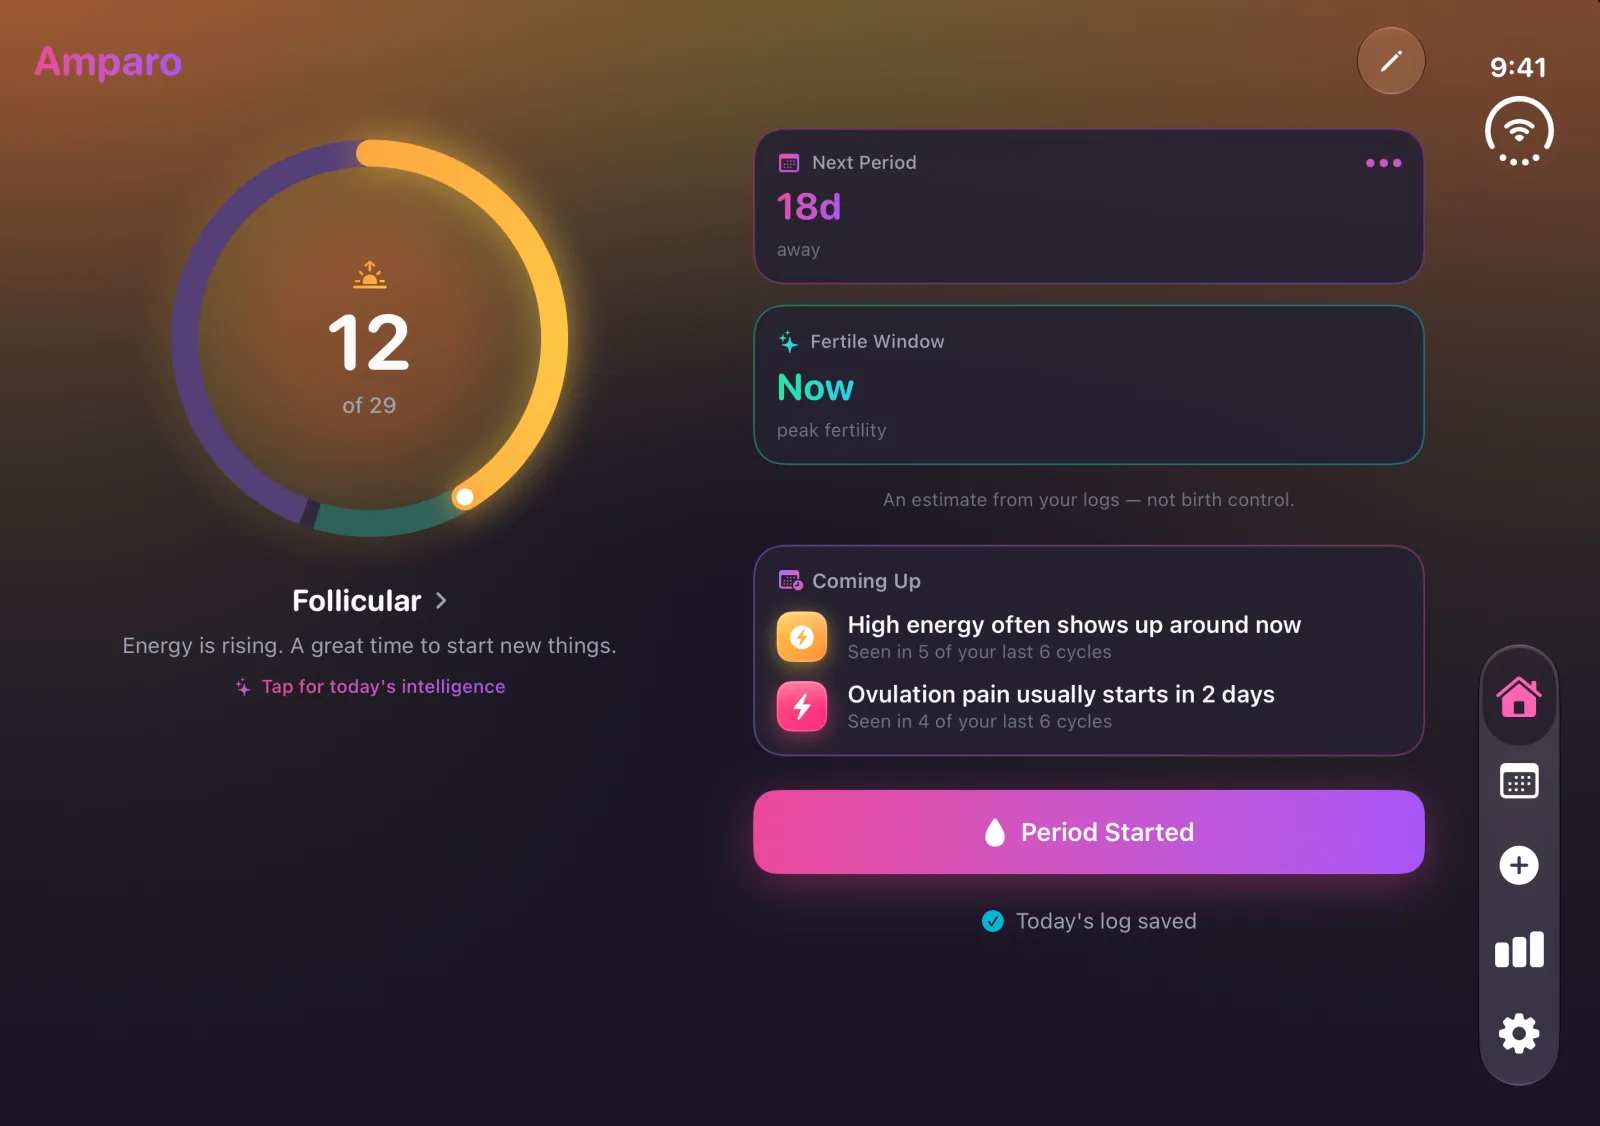
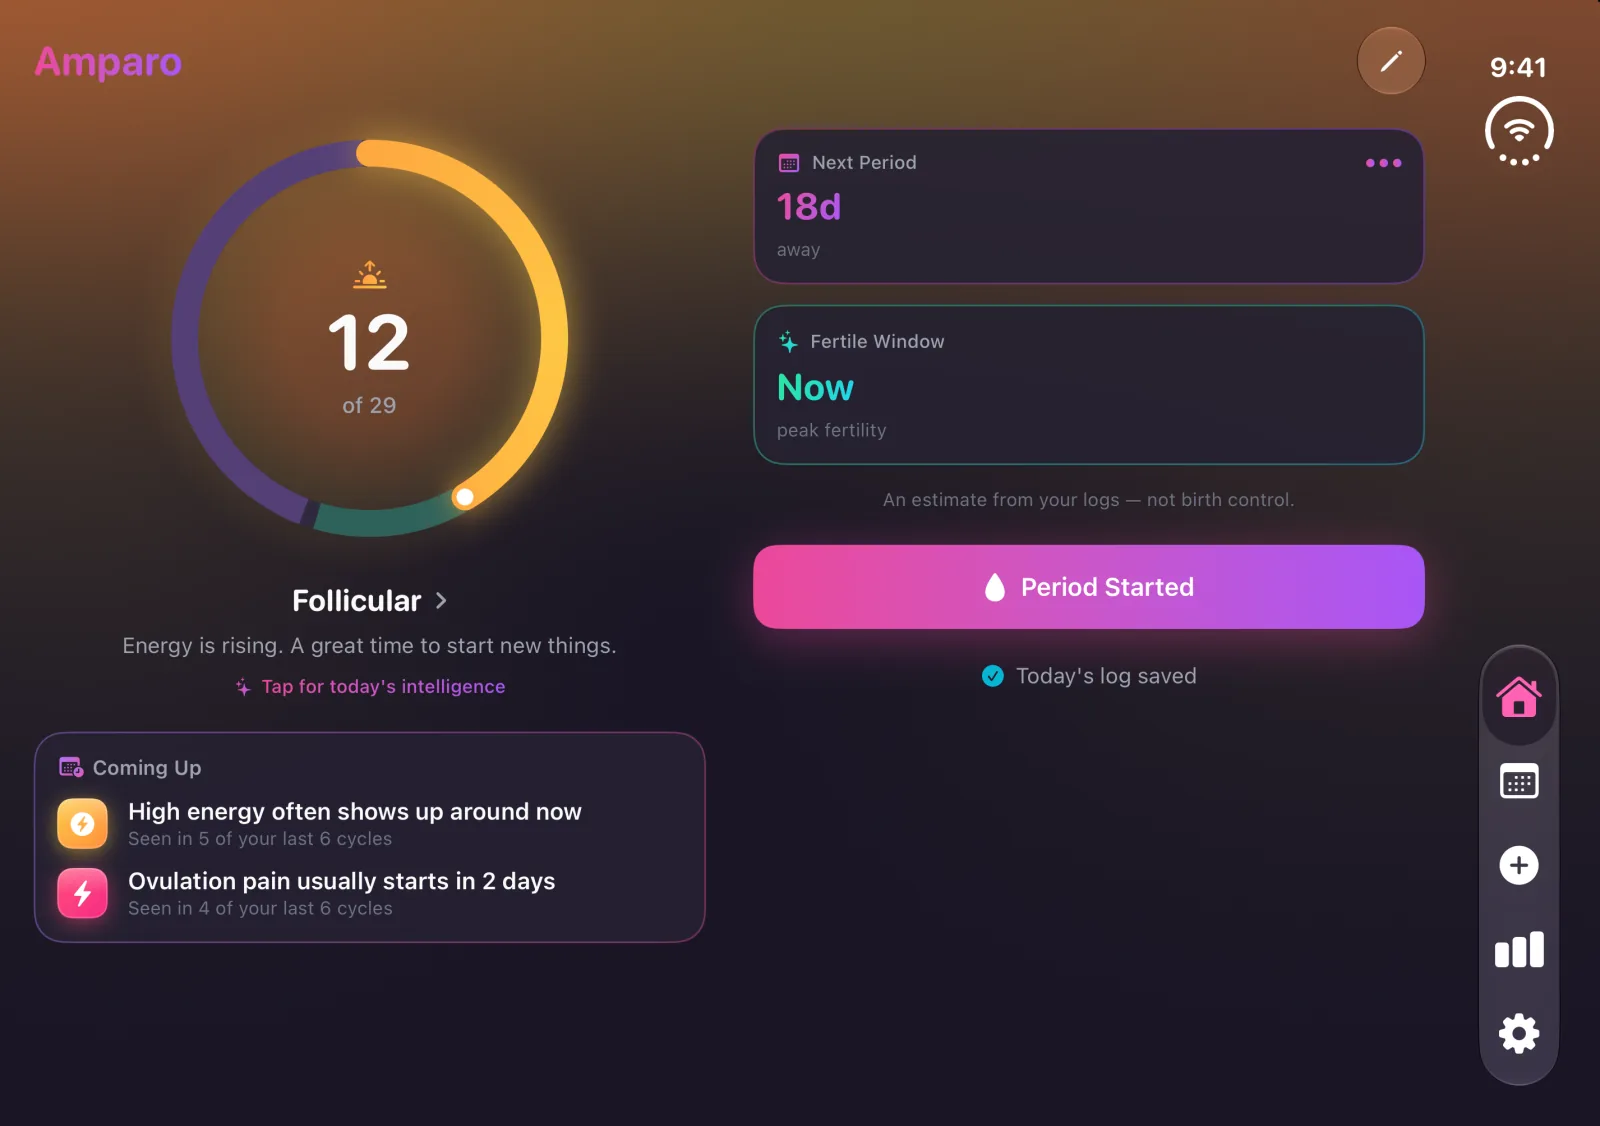
Amparo 1.5: designed for iPhone Duo, with the Log in the Duo gallery

Changed region(s): [[0.4688, 0.4663, 0.9062, 0.8393], [0.0312, 0.6528, 0.375, 0.8393]]

diff --git a/src/app/data/projects.ts b/src/app/data/projects.ts
@@ -33,6 +33,7 @@ import amparoDuo from '../assets/amparo/duo/home.webp';
 import amparoDuoCalendar from '../assets/amparo/duo/calendar.webp';
 import amparoDuoInsights from '../assets/amparo/duo/insights.webp';
 import amparoDuoSkins from '../assets/amparo/duo/skins.webp';
+import amparoDuoLog from '../assets/amparo/duo/log.webp';
 import amparoPrivacy from '../assets/amparo/privacy.webp';
 import amparoInsights from '../assets/amparo/insights.webp';
 import amparoPatterns from '../assets/amparo/patterns.webp';
@@ -49,6 +50,7 @@ import amparoDuoEs from '../assets/amparo/es/duo/home.webp';
 import amparoDuoCalendarEs from '../assets/amparo/es/duo/calendar.webp';
 import amparoDuoInsightsEs from '../assets/amparo/es/duo/insights.webp';
 import amparoDuoSkinsEs from '../assets/amparo/es/duo/skins.webp';
+import amparoDuoLogEs from '../assets/amparo/es/duo/log.webp';
 import amparoPrivacyEs from '../assets/amparo/es/privacy.webp';
 import amparoInsightsEs from '../assets/amparo/es/insights.webp';
 import amparoPatternsEs from '../assets/amparo/es/patterns.webp';
@@ -1014,7 +1016,7 @@ export const projects: Project[] = [
         'Pattern insights that describe your own rhythms: never a diagnosis, never a contraceptive',
     ],
     version: {
-      current: '1.4',
+      current: '1.5',
       currentFeatures: [
         'The whole app in English and Spanish, following your iPhone\'s language, widgets and Siri included',
         'Kept out of iCloud Backup by default, so your data stays on your iPhone unless you choose otherwise',
@@ -1030,14 +1032,14 @@ export const projects: Project[] = [
         'Keep My History: automatically delete entries older than a period you choose',
         'Four looks: Midnight, Daylight, Notepad, and Plain, with widgets and the Live Activity to match',
         'Widgets for the Home Screen, the Lock Screen, and StandBy, plus a control for Control Center and the Action button',
-        'Made for iPhone Duo: unfold it, and Home, Calendar, and Insights spread into two columns',
+        'Designed for iPhone Duo: unfold it, and every tab spreads into two columns, with the whole day\'s log on one screen',
+        'The Calendar shows everything you logged for a day beside the month',
         'VoiceOver, Voice Control, larger text, and Increase Contrast, with charts you can hear',
         'Siri keeps quiet about your cycle while your iPhone is locked',
       ],
-      next: '1.5',
+      next: '1.6',
       nextFeatures: [
-        'Designed for iPhone Duo: unfold it, and every tab spreads into two columns, with the whole day\'s log on one screen',
-        'The Calendar shows everything you logged for a day beside the month',
+        'What\'s next is still being decided. Whatever it is, your data will stay on your iPhone.',
       ],
     },
     appStoreUrl: 'https://apps.apple.com/us/app/amparo/id6765911709',
@@ -1213,19 +1215,33 @@ export const projects: Project[] = [
         width: 737,
         height: 1600,
       },
-      /* iPhone Duo, unfolded: the screens 1.4 lays out in two columns, from
-         Amparo's docs/screenshots/Raw/Duo inner (captured 2026-10-17). The
-         other screens there are the iPhone layout, stretched. */
+      /* iPhone Duo, unfolded: 1.5 lays out every tab in two columns, from
+         Amparo's docs/screenshots/Raw/Duo inner (captured 2026-10-21). */
       {
         device: 'duo',
         src: amparoDuo,
-        alt: 'Amparo\'s Home screen unfolded on iPhone Duo: the cycle ring and phase on the left, and the next period, the fertile window, two symptoms coming up, and the Period Started button in a second column, with the tabs in a rail on the right.',
-        caption: 'Made for iPhone Duo: unfold it, and Home, Calendar, and Insights spread into two columns.',
+        alt: 'Amparo\'s Home screen unfolded on iPhone Duo: the cycle ring, the follicular phase, and two symptoms coming up on the left; the next period in 18 days, the fertile window, and the Period Started button on the right; and the tabs in a rail along the right edge.',
+        caption: 'Designed for iPhone Duo: unfold it, and every tab spreads into two columns.',
         translations: {
           es: {
             src: amparoDuoEs,
-            alt: 'La pantalla Inicio de Amparo abierta en el iPhone Duo: el anillo del ciclo y la fase a la izquierda, y en una segunda columna el próximo periodo, la ventana fértil, dos síntomas que se acercan y el botón Empezó mi periodo, con las pestañas en un riel a la derecha.',
-            caption: 'Hecha para el iPhone Duo: al abrirlo, Inicio, Calendario y Análisis se reparten en dos columnas.',
+            alt: 'La pantalla Inicio de Amparo abierta en el iPhone Duo: el anillo del ciclo, la fase folicular y dos síntomas que se acercan a la izquierda; el próximo periodo en 18 días, la ventana fértil y el botón Empezó mi periodo a la derecha, y las pestañas en un riel en el borde derecho.',
+            caption: 'Diseñada para el iPhone Duo: al abrirlo, cada pestaña se reparte en dos columnas.',
+          },
+        },
+        width: 1600,
+        height: 1126,
+      },
+      {
+        device: 'duo',
+        src: amparoDuoLog,
+        alt: 'Logging October 21 unfolded on iPhone Duo: flow, symptoms, and moods on the left; energy, temperature, cervical mucus, activity, and notes on the right, with nothing to scroll to.',
+        caption: 'The whole day\'s log on one screen.',
+        translations: {
+          es: {
+            src: amparoDuoLogEs,
+            alt: 'El registro del 21 de octubre abierto en el iPhone Duo: flujo, síntomas y ánimo a la izquierda; energía, temperatura, moco cervical, actividad y notas a la derecha, sin nada que desplazar.',
+            caption: 'Todo el registro del día en una sola pantalla.',
           },
         },
         width: 1600,
@@ -1234,13 +1250,13 @@ export const projects: Project[] = [
       {
         device: 'duo',
         src: amparoDuoCalendar,
-        alt: 'The Calendar unfolded on iPhone Duo: October on the left, and on the right the symptoms and moods logged on October 17, with the tabs in a rail on the right.',
-        caption: 'Unfolded, the month sits beside the day you tap.',
+        alt: 'The Calendar unfolded on iPhone Duo: October on the left, and on the right everything logged on October 21: symptoms, moods, energy, cervical mucus, and notes.',
+        caption: 'Unfolded, everything you logged for a day sits beside the month.',
         translations: {
           es: {
             src: amparoDuoCalendarEs,
-            alt: 'El Calendario abierto en el iPhone Duo: octubre a la izquierda y, a la derecha, los síntomas y el ánimo registrados el 17 de octubre, con las pestañas en un riel a la derecha.',
-            caption: 'Al abrirlo, el mes queda junto al día que tocas.',
+            alt: 'El Calendario abierto en el iPhone Duo: octubre a la izquierda y, a la derecha, todo lo registrado el 21 de octubre: síntomas, ánimo, energía, moco cervical y notas.',
+            caption: 'Al abrirlo, todo lo que registraste en un día queda junto al mes.',
           },
         },
         width: 1600,
@@ -1249,13 +1265,13 @@ export const projects: Project[] = [
       {
         device: 'duo',
         src: amparoDuoInsights,
-        alt: 'Insights unfolded on iPhone Duo: the averages across the top, the Doctor Visit Summary, and the basal body temperature and cycle length charts side by side.',
-        caption: 'Insights spreads out, with your charts side by side.',
+        alt: 'Insights unfolded on iPhone Duo: the averages across the top, the Doctor Visit Summary, and the basal body temperature and cycle length charts side by side, with more in two columns below.',
+        caption: 'Your charts side by side, and your patterns beside your history below.',
         translations: {
           es: {
             src: amparoDuoInsightsEs,
-            alt: 'Análisis abierto en el iPhone Duo: los promedios arriba, el Resumen para la consulta médica y las gráficas de temperatura basal y duración del ciclo una junto a la otra.',
-            caption: 'Análisis se extiende, con tus gráficas una junto a la otra.',
+            alt: 'Análisis abierto en el iPhone Duo: los promedios arriba, el Resumen para la consulta médica y las gráficas de temperatura basal y duración del ciclo una junto a la otra, con más en dos columnas debajo.',
+            caption: 'Tus gráficas una junto a la otra, y debajo tus patrones junto a tu historial.',
           },
         },
         width: 1600,
@@ -1264,12 +1280,12 @@ export const projects: Project[] = [
       {
         device: 'duo',
         src: amparoDuoSkins,
-        alt: 'Home unfolded on iPhone Duo in the Notepad look: lined, cream-colored paper, the cycle ring on the left, and the cards and the Period Started button on the right.',
+        alt: 'Home unfolded on iPhone Duo in the Notepad look: lined, cream-colored paper, the cycle ring and the symptoms coming up on the left, and the cards and the Period Started button on the right.',
         caption: 'Your look unfolds with it. Here, Notepad.',
         translations: {
           es: {
             src: amparoDuoSkinsEs,
-            alt: 'Inicio abierto en el iPhone Duo con el estilo Libreta: papel rayado color crema, el anillo del ciclo a la izquierda, y las tarjetas y el botón Empezó mi periodo a la derecha.',
+            alt: 'Inicio abierto en el iPhone Duo con el estilo Libreta: papel rayado color crema, el anillo del ciclo y los síntomas que se acercan a la izquierda, y las tarjetas y el botón Empezó mi periodo a la derecha.',
             caption: 'Tu estilo se abre con él. Aquí, Libreta.',
           },
         },

diff --git a/src/app/data/projects.es.ts b/src/app/data/projects.es.ts
@@ -461,6 +461,33 @@ export const PROJECTS_ES: Record<string, ProjectTranslation> = {
           ],
         },
       },
+      '1.5': {
+        version: {
+          currentFeatures: [
+            'Toda la app en inglés y en español, según el idioma de tu iPhone, con los widgets y Siri incluidos',
+            'Fuera del respaldo de iCloud de forma predeterminada, para que tus datos se queden en tu iPhone a menos que elijas otra cosa',
+            'Pasar a un nuevo iPhone: una transferencia cifrada por AirDrop con un código de un solo uso, sin nube de por medio',
+            'Trae tu historial desde la app Salud de Apple, Clue o Flo, leído en tu iPhone y nunca subido',
+            'Tus patrones: cuándo suelen llegar tus síntomas, cada uno ciclo a ciclo, y un aviso opcional la mañana anterior',
+            'Notas de patrones: una nota opcional cuando tus ciclos empiezan a acortarse, a alargarse, a variar más o pasan 60 días sin periodo',
+            'Notas de perimenopausia: si así lo eliges, una revisión de si la duración de tus ciclos muestra los patrones que los profesionales de la salud usan para describir la transición a la menopausia, con las fechas en que se basan, en Análisis y en el Resumen para la consulta médica',
+            'Predicciones con niveles de confianza y rangos, la ovulación confirmada por la temperatura y el cálculo de tu próximo periodo a partir de ese aumento',
+            'La temperatura en grados Celsius o Fahrenheit, según la región de tu iPhone hasta que elijas una unidad',
+            'Un resumen para la consulta médica: un PDF con tus ciclos, patrones y temperaturas para compartir con un profesional de la salud',
+            'Modo discreto para las notificaciones y la pantalla bloqueada, además de iconos que no parecen de una app del ciclo',
+            'Conservar mi historial: elimina automáticamente los registros más antiguos que el plazo que elijas',
+            'Cuatro estilos: Medianoche, Luz de día, Libreta y Sencillo, con widgets y la Actividad en vivo a juego',
+            'Widgets para la pantalla de inicio, la pantalla bloqueada y el modo En espera, además de un control para el Centro de control y el botón de acción',
+            'Diseñada para el iPhone Duo: al abrirlo, cada pestaña se reparte en dos columnas, con todo el registro del día en una sola pantalla',
+            'El Calendario muestra todo lo que registraste en un día junto al mes',
+            'VoiceOver, Control por voz, texto grande y Aumentar contraste, con gráficas que puedes escuchar',
+            'Siri no habla de tu ciclo mientras tu iPhone está bloqueado',
+          ],
+          nextFeatures: [
+            'Lo siguiente aún está por decidirse. Sea lo que sea, tus datos se quedarán en tu iPhone.',
+          ],
+        },
+      },
     },
   },
 };
